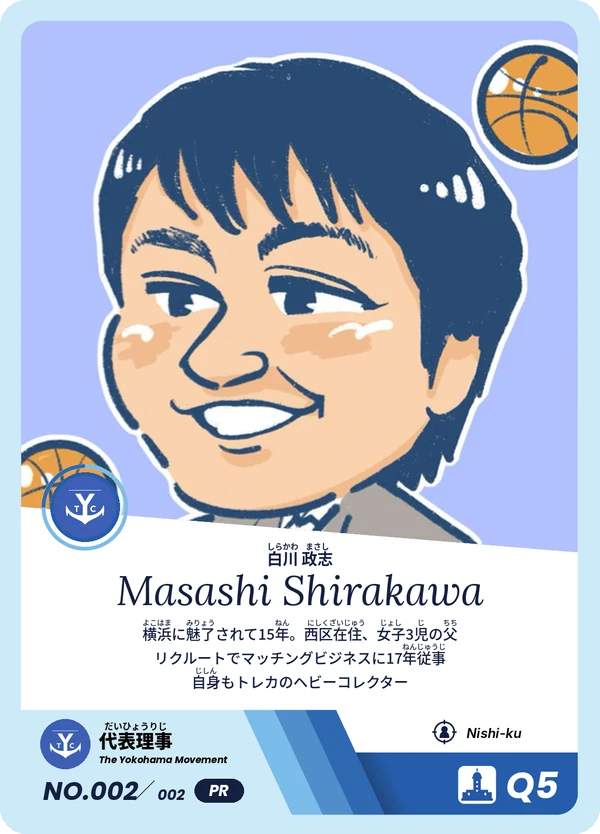
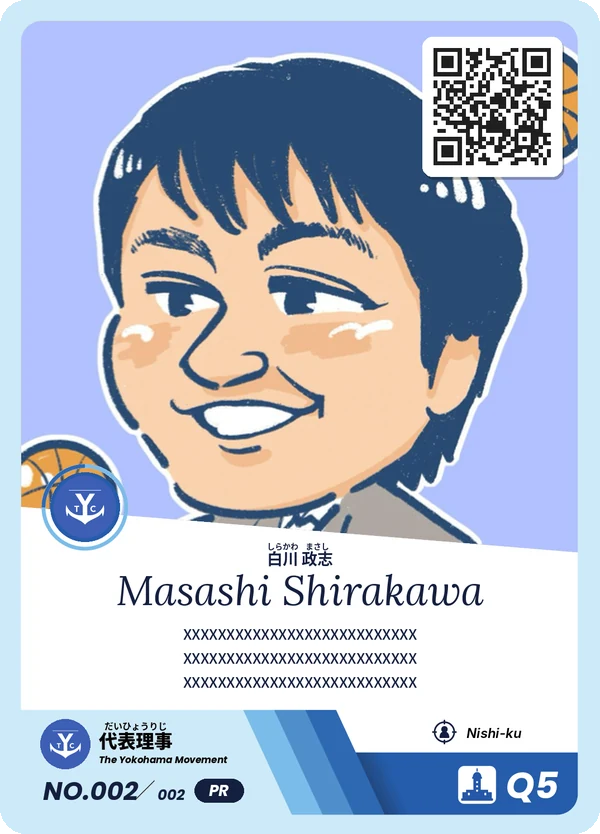
PRカード見本：説明文をダミーに、QRコード（/q/pr02/）を追加
Claude-Session: https://claude.ai/code/session_01P4XxMs2deTayRCmFSNkbRe

Changed region(s): [[0.69, 0.0312, 0.96, 0.2182], [0.24, 0.7482, 0.78, 0.8417]]

diff --git a/q/pr02/index.html b/q/pr02/index.html
@@ -1,0 +1,16 @@
+<!doctype html>
+<html lang="ja">
+<head>
+<meta charset="utf-8">
+<meta name="viewport" content="width=device-width, initial-scale=1">
+<meta name="robots" content="noindex">
+<title>THE YOKOHAMA CARD 公式サイト｜THE YOKOHAMA CARD</title>
+<meta http-equiv="refresh" content="0; url=https://theyokohama.github.io/">
+<link rel="canonical" href="https://theyokohama.github.io/">
+<style>body{margin:0;font-family:sans-serif;color:#151F3F;background:#EAF5FB;display:flex;min-height:100vh;align-items:center;justify-content:center;text-align:center;padding:20px;box-sizing:border-box}a{color:#2B4E9E;font-weight:700}</style>
+</head>
+<body>
+<p>THE YOKOHAMA CARD<br>「THE YOKOHAMA CARD 公式サイト」の案内ページへ移動しています。<br><br><a href="https://theyokohama.github.io/">自動で移動しない場合はこちら</a></p>
+<script>location.replace('https://theyokohama.github.io/');</script>
+</body>
+</html>
